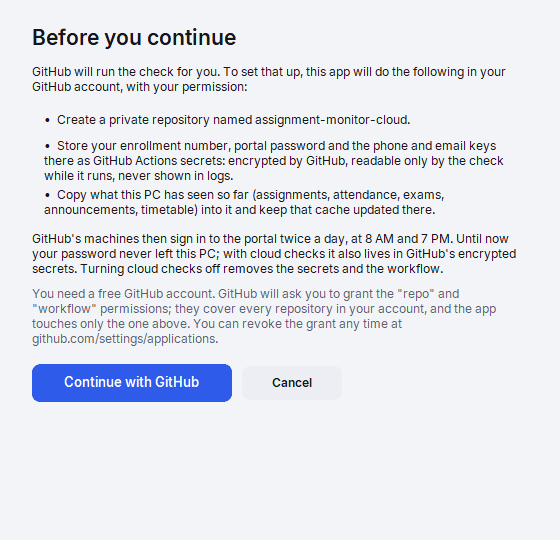
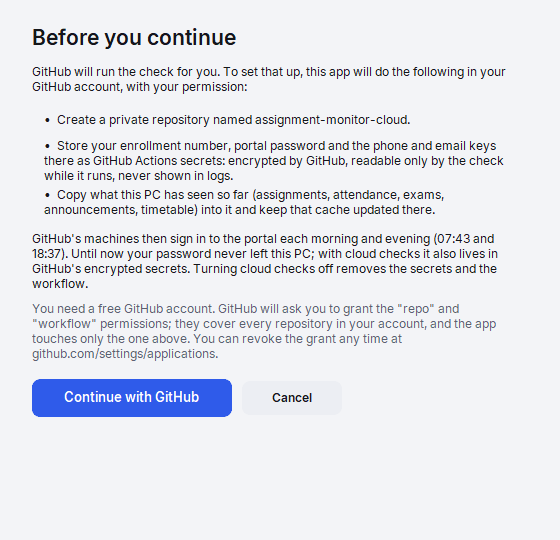
Settings: cloud texts say the real schedule (07:43 and 18:37); the data folder reads %LOCALAPPDATA%\Assignment Monitor when it lives there. Website: cloud walkthrough screenshots regenerated on 1.6.0 from demo data under a neutral data path

Changed region(s): [[0.0304, 0.4148, 0.9107, 0.7704], [0.4857, 0.6815, 0.5768, 0.7704]]

diff --git a/app.py b/app.py
@@ -770,6 +770,20 @@ class QueueHandler(logging.Handler):
 
 
 # ---------------------------------------------------------------------------- sign-in screen
+def shown_home() -> str:
+    r"""The data folder as the user knows it: %LOCALAPPDATA%\Assignment Monitor when it lives there (the usual
+    install), the real path otherwise (running from source, or a chosen folder)."""
+    local = os.environ.get("LOCALAPPDATA")
+    try:
+        if local:
+            base, root = os.path.realpath(str(BASE_DIR)), os.path.realpath(local)
+            if os.path.commonpath([base, root]) == root:
+                return "%LOCALAPPDATA%\\" + os.path.relpath(base, root)
+    except (OSError, ValueError):
+        pass
+    return str(BASE_DIR)
+
+
 def empty_semester_box(parent, app, title="No courses registered yet"):
     """What every page shows after a check that found no courses on the portal (between semesters)."""
     box = surface(parent)
@@ -2699,7 +2713,7 @@ class SettingsView(ctk.CTkScrollableFrame):
 
         self._cloud_section(env)
 
-        data = self._section("Your data", f"Everything the app keeps is on this PC, in {BASE_DIR}. The activity log is what it "
+        data = self._section("Your data", f"Everything the app keeps is on this PC, in {shown_home()}. The activity log is what it "
                                           "did and when, including the background checks.")
         row = ctk.CTkFrame(data, fg_color="transparent")
         row.pack(fill="x", padx=20, pady=(0, 18))
@@ -2833,7 +2847,7 @@ class SettingsView(ctk.CTkScrollableFrame):
     # ---- cloud checks
     def _cloud_section(self, env):
         box = self._section("Cloud checks (PC off)",
-                            "GitHub runs the same check twice a day, at 8 AM and 7 PM, from a private repository in "
+                            "GitHub runs the same check each morning and evening (07:43 and 18:37), from a private repository in "
                             "your own GitHub account, so phone and email alerts arrive even when this PC is off. Free. "
                             "While it is on, this PC keeps its desktop and voice alerts and leaves phone and email to "
                             "the cloud, so nothing arrives twice.")
@@ -2981,7 +2995,7 @@ class SettingsView(ctk.CTkScrollableFrame):
                          "into it and keep that cache updated there."):
                 ctk.CTkLabel(body, text="•  " + line, font=F(SM), text_color=C["ink"], justify="left", anchor="w",
                              wraplength=480).pack(fill="x", padx=(12, 0), pady=2)
-            text(body, "GitHub's machines then sign in to the portal twice a day, at 8 AM and 7 PM. Until now your "
+            text(body, "GitHub's machines then sign in to the portal each morning and evening (07:43 and 18:37). Until now your "
                        "password never left this PC; with cloud checks it also lives in GitHub's encrypted secrets. "
                        "Turning cloud checks off removes the secrets and the workflow.", pady=(12, 10))
             text(body, "You need a free GitHub account. GitHub will ask you to grant the \"repo\" and \"workflow\" "
@@ -3071,7 +3085,7 @@ class SettingsView(ctk.CTkScrollableFrame):
         def stage_done(info):
             clear()
             text(body, "Cloud checks are on", H3, weight="semibold", pady=(0, 12))
-            text(body, f"GitHub ({info['login']}) now checks the portal for you at 8 AM and 7 PM, PC on or off. "
+            text(body, f"GitHub ({info['login']}) now checks the portal for you at 07:43 and 18:37, PC on or off. "
                        "A first check is running right now; within a few minutes it sends a test alert to your "
                        "phone and mailbox (whichever are set up) and the result shows in Settings.")
             text(body, "From now on this PC keeps its desktop and voice alerts and leaves phone and email to the "

diff --git a/CHANGELOG.md b/CHANGELOG.md
@@ -2,6 +2,7 @@
 
 ## Unreleased
 
+- Settings: the cloud-checks texts say the real schedule (07:43 and 18:37) instead of 8 AM and 7 PM; the data folder is shown as %LOCALAPPDATA%\Assignment Monitor when it lives there.
 - Start-up race fixed: the Settings page's cloud-status worker could call into the window before the main loop was running, and the error ("main thread is not in main loop") landed in the status bar. The worker now waits for the loop.
 
 ## 1.6.0 - 2026-10-25
